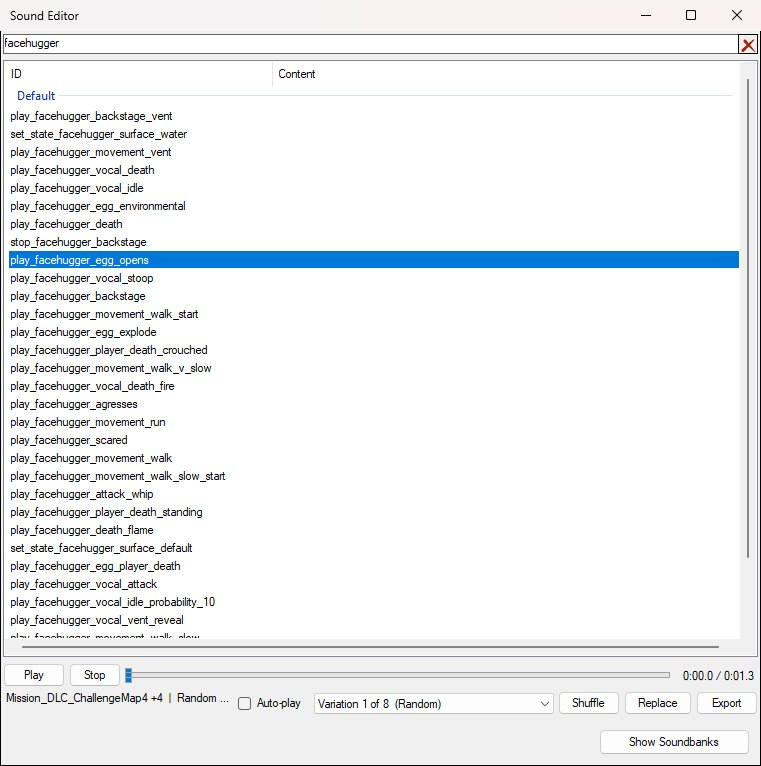
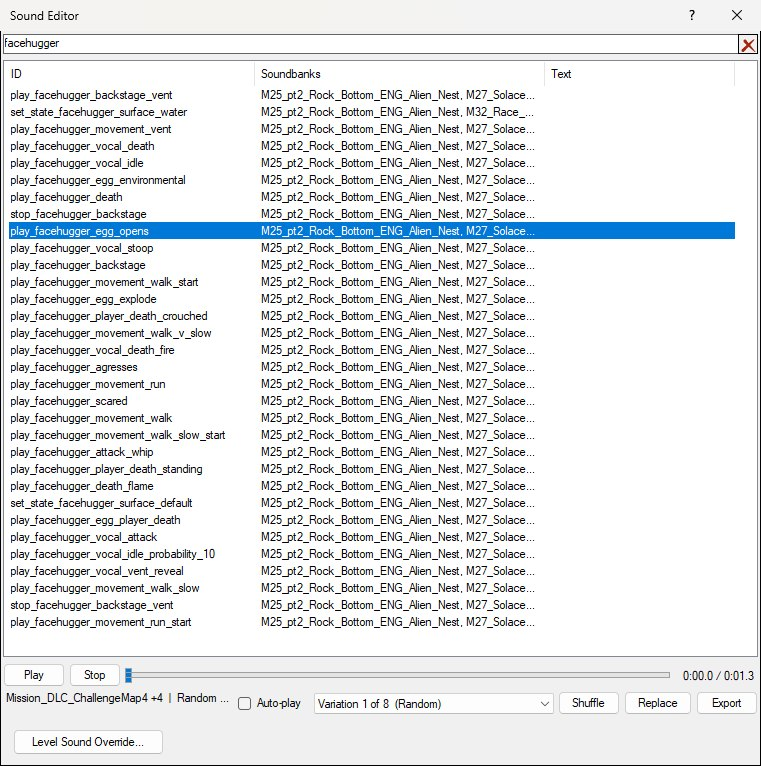
docs, changelog

diff --git a/docs/sound-events/index.html b/docs/sound-events/index.html
@@ -105,6 +105,8 @@
 <li class="nav-item"><a class="nav-link scrollto" href="#replace-copies">Every Copy is Replaced</a></li>
 <li class="nav-item"><a class="nav-link scrollto" href="#replace-level">Replacing for One Level</a></li>
 <li class="nav-item section-title"><a class="nav-link scrollto" href="#level-sound-override"><span class="theme-icon-holder me-2"><i class="fas fa-scroll"></i></span>Level Sound Override</a></li>
+<li class="nav-item"><a class="nav-link scrollto" href="#import-wav">Importing a WAV</a></li>
+<li class="nav-item"><a class="nav-link scrollto" href="#new-soundbank">Making a Soundbank</a></li>
 <li class="nav-item"><a class="nav-link scrollto" href="#level-sound-override-limits">What a Level Can't Replace</a></li>
 <li class="nav-item section-title"><a class="nav-link scrollto" href="#metadata"><span class="theme-icon-holder me-2"><i class="fas fa-scroll"></i></span>Soundbank Metadata</a></li>
 <li class="nav-item section-title"><a class="nav-link scrollto" href="#related"><span class="theme-icon-holder me-2"><i class="fas fa-scroll"></i></span>Related Docs</a></li>
@@ -129,8 +131,8 @@
 	<section class="docs-section" style="padding-top:0;">
 		<p>Alien: Isolation's audio runs through <b>Wwise</b>. Scripts don't reference audio files — they fire <b>sound events</b> by name, and Wwise decides what that means: which take to play, whether to pick at random, which bank the audio comes from.</p>
 		<p>Whenever you set a sound event on an entity parameter, OpenCAGE opens the sound event selector. That window has a player along its bottom edge, so you can hear what an event actually sounds like before committing to it — and export or replace the audio behind it.</p>
-		<p>The same window opens from <b>View → Sound Editor</b> once a level is loaded, with no parameter behind it: every sound event the level knows (shown below), to listen through, look up in the soundbanks, export or replace, without first finding an entity that plays one. The box along the top filters the list as you type. It stays open while you work in the editor and closes when the level does. Only one of these windows is open at a time, so editing a sound event parameter in the inspector closes the Sound Editor and opens the picker in its place.</p>
-		<p><img src="img/sound-editor.jpg" alt="The Sound Editor window: a searchable list of every sound event in the level, with the preview player along the bottom edge showing the loaded take, its variations and the Replace and Export buttons." style="max-width:100%;width:761px"></p>
+		<p>The same window opens from <b>View → Sound Editor</b> once a level is loaded, with no parameter behind it: every sound event the level knows (shown below), with the soundbanks each is in, to listen through, export or replace, without first finding an entity that plays one. The box along the top filters the list as you type, on the event's name or the name of a soundbank it's in. It stays open while you work in the editor and closes when the level does. Only one of these windows is open at a time, so editing a sound event parameter in the inspector closes the Sound Editor and opens the picker in its place.</p>
+		<p><img src="img/sound-editor.jpg" alt="The Sound Editor window: a searchable list of every sound event in the level and the soundbanks each is in, with the preview player along the bottom edge showing the loaded take, its variations and the Replace and Export buttons." style="max-width:100%;width:761px"></p>
 		<p class="text-muted small"><i>View → Sound Editor with an event selected. Opened from a parameter instead, the same window is titled Select for 'sound_event' and gains a Select button.</i></p>
     </section>
 </article>
@@ -165,7 +167,7 @@
 			<li><a href="/docs/cathode-entities/#Sound">Sound</a> — plays a sound event. Set its <code>sound_event</code> parameter and trigger it; that parameter is what opens the selector described on this page.</li>
 			<li><a href="/docs/cathode-entities/#SoundLoadBank">SoundLoadBank</a> — loads the soundbank the event lives in. The audio isn't resident until something loads its bank, so a <a href="/docs/cathode-entities/#Sound">Sound</a> entity firing an event from an unloaded bank plays nothing.</li>
 		</ul>
-		<p>Which bank to load is exactly what the <b>Show Soundbanks</b> button tells you — select the event, read off the soundbank it's listed in, and point a <a href="/docs/cathode-entities/#SoundLoadBank">SoundLoadBank</a> at that. See <a href="#metadata">Soundbank Metadata</a>.</p>
+		<p>Which bank to load is exactly what the <b>Soundbanks</b> column tells you — find the event, read off a soundbank it's listed in, and have a <a href="/docs/cathode-entities/#SoundLoadBank">SoundLoadBank</a> load it: link a <a href="/docs/cathode-entities/#VariableString">VariableString</a> holding the bank's name to the SoundLoadBank's <code>sound_bank</code> pin, the way the game's own scripts do. A name typed straight onto the pin isn't read. See <a href="#metadata">Soundbank Metadata</a>.</p>
 		<p>Banks that are permanently resident don't need loading; those are configured separately under <a href="/docs/configs/perma-soundbanks/">Permanent Soundbanks</a>.</p>
     </section>
 
@@ -177,8 +179,8 @@
 			<li><a href="/docs/cathode-entities/#SpeechScript">SpeechScript</a> — <b>a whole exchange</b>. Takes up to five characters (<code>character_01</code>…<code>character_05</code>, each with an alt) and up to ten lines. Each line has a <code>line_NN_event</code> for the sound event, a <code>line_NN_character</code> naming which of the five slots delivers it, and — from the second line onwards — a <code>line_NN_delay</code> for the pause before it. Fires <code>on_script_ended</code> when the last line finishes.</li>
 		</ul>
 		<p>Use <a href="/docs/cathode-entities/#Speech">Speech</a> for a barked line or a one-off; use <a href="/docs/cathode-entities/#SpeechScript">SpeechScript</a> for back-and-forth conversation, where hand-wiring a chain of <a href="/docs/cathode-entities/#Speech">Speech</a> entities and delays would be far more work.</p>
-		<p>In the selector, a dialogue event shows its subtitle in the <b>Content</b> column, and the search box matches on that text as well as on the event name — so you can find a line by what's said. Lines whose audio depends on who is speaking can't be previewed; the player's status line says so when you select one.</p>
-		<p>Both still need their bank loaded, so the <b>Show Soundbanks</b> → <a href="/docs/cathode-entities/#SoundLoadBank">SoundLoadBank</a> step above applies to dialogue as much as to any other sound.</p>
+		<p>In the selector, a dialogue event shows its subtitle in the <b>Text</b> column, and the search box matches on that text as well as on the event name — so you can find a line by what's said. Lines whose audio depends on who is speaking can't be previewed; the player's status line says so when you select one.</p>
+		<p>Both still need their bank loaded, so the <b>Soundbanks</b> column → <a href="/docs/cathode-entities/#SoundLoadBank">SoundLoadBank</a> step above applies to dialogue as much as to any other sound.</p>
 	</section>
 </article>
 
@@ -236,8 +238,8 @@
 		<h2 class="section-heading">Preparing a WAV</h2>
 		<p>Replacement audio must be a <code>.wav</code>. A few things to keep in mind:</p>
 		<ul>
-			<li><b>Uncompressed, mono or stereo.</b> The <code>.wav</code> must be uncompressed PCM (8, 16, 24 or 32-bit) or floating point. A file with more than two channels is refused, so mix surround down to stereo first. 44100 or 48000 Hz always works; an unusual sample rate can be refused.</li>
-			<li><b>Match the original's channel count where you can.</b> Replacing a mono sound with a stereo file changes how the engine positions it in 3D space. The summary describes the file you chose but doesn't compare it with the original — the player's status line is where you read off the original's sample rate and channel layout.</li>
+			<li><b>Uncompressed, any channel count or sample rate.</b> The <code>.wav</code> must be uncompressed PCM (8, 16, 24 or 32-bit) or floating point. The game's codebooks only cover mono and stereo, so a file with more channels is mixed down to stereo. A sample rate the game's decoder isn't set up for is resampled to the nearest one it is: mono works from 16000 Hz up, stereo from 32000 Hz up, and anything above 48000 Hz (the highest the game ships) comes down to 48000 Hz. The summary says when either happened.</li>
+			<li><b>Match the original's channel count where you can.</b> Replacing a mono sound with a stereo file changes how the engine positions it in 3D space. The summary names the original's layout beside your file's; <a href="#import-wav">Import WAV</a> in the Level Sound Override window can mix and resample to match it for you.</li>
 			<li><b>The encoding follows the original.</b> On PC everything is Wwise Vorbis. The Switch build also stores some sounds as Wwise ADPCM and a few as plain PCM — OpenCAGE encodes to whichever codec the sound it's replacing used, so the game can still read it.</li>
 			<li><b>Size matters, but isn't fatal.</b> The summary tells you how the new audio compares to the old; a much larger file grows the container it lives in.</li>
 			<li><b>A variation with no audio of its own can't be replaced.</b> Some entries in a container are references rather than media — the player says so if you try.</li>
@@ -276,14 +278,65 @@
 	<section class="docs-section" style="padding-top:0;">
 		<p>Any level can carry a sound package of its own: <code>WORLD\LEVEL_SOUND_OVERRIDE.PCK</code> in the level's folder. When the game loads the level it mounts that package ahead of the shared sound files, so a soundbank or a streamed sound in it with the same id as one in <code>DATA\SOUND</code> is read from the package instead — on that level alone. The challenge maps carry changed copies of shared soundbanks, soundbanks of their own and replacement streams this way.</p>
 		<p>It's how a modded map gets sounds of its own without changing the game's: replace a gun's firing sound for your level and every other level keeps the original.</p>
-		<p>The <b>Level Sound Override…</b> button at the bottom left of the Sound Editor lists what the open level's package holds — each soundbank and stream, its language, its size, and what it stands in for on this level:</p>
+		<p>The <b>Level Sound Override…</b> button at the bottom left of the Sound Editor lists what the open level's package holds — each soundbank, each sound changed inside it, and each stream, with its size and what it stands in for on this level. Everything is listed by name: a soundbank by its own name, and a sound by the sound event that plays it (<i>Play_SPOT_2_Man_Switch_Console</i>, or <i>Play_Pistol_Fire (take 3 of 19)</i> for one of several takes, with <i>+2 more</i> when other events play it too) rather than by the number its file is named for. The number is still in the <b>File</b> column, and stands in for the name only for audio none of the level's events plays — a soundbank of your own, say. The <b>Search</b> box filters the list by either.</p>
+		<p><img src="img/level-sound-override.jpg" alt="The Level Sound Override window listing two soundbanks, each with the sound changed inside it indented beneath, and two streams, every one named by its sound event, with Import WAV, Add Files, Export, Remove and Close along the bottom." style="max-width:100%;width:1002px"></p>
+		<p class="text-muted small"><i>A level's package with two sounds replaced inside copies of their soundbanks and two streams. The indented rows are the sounds that differ from the base game's copy of each soundbank.</i></p>
 		<ul>
-			<li><b>Add Files…</b> — puts a soundbank (<code>.bnk</code>, built with the game's version of Wwise) or a stream (<code>.wem</code> named for its id, such as <code>123456789.wem</code>) into the package, in place of anything there with the same id.</li>
-			<li><b>Export…</b> — saves the selected soundbank or stream out of the package.</li>
-			<li><b>Remove</b> (or <b>Delete</b>) — takes the selected files out of the package, so on this level the game reads the shared file of the same id again. A package with nothing left in it is deleted.</li>
+			<li><b>Import WAV…</b> — makes a sound for the level from a <code>.wav</code>, in place of one of the game's or as a stream of its own — see <a href="#import-wav">Importing a WAV</a>. With a sound selected it starts on that sound; with a soundbank selected, on that soundbank's sounds. Double-clicking a row does the same.</li>
+			<li><b>New Soundbank…</b> — makes a soundbank of the level's own, with sound events new to the game — see <a href="#new-soundbank">Making a Soundbank</a>. With a soundbank made this way selected it reads <b>Edit Soundbank…</b>, to add events to it or take them out; double-clicking the soundbank does the same.</li>
+			<li><b>Add Files…</b> — puts a soundbank (<code>.bnk</code>, built with the game's version of Wwise) or a stream (<code>.wem</code> named for its id, such as <code>123456789.wem</code>) into the package as it is, in place of anything there with the same id.</li>
+			<li><b>Export…</b> — saves the selected soundbank, stream or sound out of the package: a soundbank as a <code>.bnk</code>, a stream or a sound from inside a soundbank as Wwise audio (<code>.wem</code>) or, decoded, as a <code>.wav</code>.</li>
+			<li><b>Remove</b> (or <b>Delete</b>) — takes the selected soundbanks and streams out of the package, so on this level the game reads the shared file of the same id again, and puts the base game's audio back in place of the selected sounds in soundbanks. A soundbank that ends up the same as the base game's comes out of the package, and a package with nothing left in it is deleted.</li>
 		</ul>
-		<p>Sounds get into the package through <b>Replace → For This Level Only…</b>; this window is for seeing what's there and for whole files. Every change is written straight away, so there's nothing to save — but none of them are undo steps, and the level's package is the only copy of anything changed in it.</p>
+		<p>Every change is written straight away, so there's nothing to save — but none of them are undo steps, and the level's package is the only copy of anything changed in it. <b>Replace → For This Level Only…</b> in the Sound Editor writes to the same package.</p>
 		<p>The game holds the package open while it's running the level, so close the game before changing it.</p>
+	</section>
+
+	<section class="docs-section" id="import-wav">
+		<h2 class="section-heading">Importing a WAV</h2>
+		<p><b>Import WAV…</b> turns a <code>.wav</code> into audio the game plays, with no Wwise needed: it's encoded the way the game's own audio is (Wwise Vorbis) and put where the game reads the sound from on this level.</p>
+		<p><img src="img/import-wav.jpg" alt="The Import WAV window: the chosen .wav at the top, a searchable list of the game's sounds with the one it replaces selected, the channel, sample rate, quality and gain choices, and a summary of what importing it will do above Play Original, Play New, Import and Cancel." style="max-width:100%;width:862px"></p>
+		<p class="text-muted small"><i>A mono 22050 Hz .wav going in place of play_alien_spawn, mixed and resampled to the stereo 44100 Hz the original was shipped at.</i></p>
+		<ol>
+			<li><b>Browse…</b> for the <code>.wav</code>, or drop one on the window. While no sound is picked yet, a file named for a sound event or a sound's id picks that sound for you.</li>
+			<li>Pick the sound it replaces. The list has every sound the level's events play, named by the event (and which take it is), its id, where the game keeps it — a stream, or the soundbank it's in — and the other events that play it. Search by an event's name, a soundbank's name or an id. A sound the level can't replace says why in <b>Kept in</b> (see <a href="#level-sound-override-limits">What a Level Can't Replace</a>).</li>
+			<li>Choose the layout. By default the new audio <b>matches the sound it replaces</b>: mixed to its channel count and resampled to its sample rate, so the game positions and mixes it as before. You can keep the <code>.wav</code>'s own channels or rate instead, or pick mono, stereo or a rate yourself. <b>Quality</b> is the Vorbis quality (raised automatically to the nearest setting the game's decoder is set up for), <b>Gain</b> adds decibels, and <b>Normalise to -1 dBFS</b> scales the loudest moment to just under full scale.</li>
+			<li>Read the summary: the new audio's layout against the original's, the encoding, its size against the audio it replaces, and what happens to the level's package. It's worked out again whenever you change something, and nothing is written yet.</li>
+			<li><b>Play Original</b> plays the game's audio for the sound; <b>Play New</b> plays the new audio, decoded from the very file that will go in. <b>Import</b> writes it.</li>
+		</ol>
+		<p>Where it goes depends on where the game keeps the sound. A streamed sound goes in as a stream of its own. A sound held inside a soundbank needs the whole bank, so the bank is copied into the package once and the sound swapped inside the copy, with the bank's directory and the sound objects that point at the audio kept in step; later imports change the copy where it is. A streamed sound whose opening is also held in a soundbank (for it to start without waiting on the disk) gets both. Of the per-level <code>DynamicLoad_</code> soundbanks, only the level's own is copied.</p>
+		<p><b>Add it as a stream of its own</b> puts the audio in the package as a stream with an id you type — for a soundbank of your own, added with <b>Add Files…</b>, that streams audio by that id. There's no original to match, so the <code>.wav</code>'s layout is kept unless you choose one.</p>
+		<p>A few things the summary will tell you about:</p>
+		<ul>
+			<li><b>Surround.</b> The game's codebooks only cover mono and stereo, so a 5.1 original gets stereo audio, and a surround <code>.wav</code> is mixed down.</li>
+			<li><b>Size.</b> Audio held in a soundbank stays in memory for as long as the bank is loaded. A replacement several times the size of the original, or a large one, is pointed out; mono, a lower sample rate, a lower quality or a shorter sound make it smaller.</li>
+			<li><b>Loops and markers.</b> Whether a sound loops is up to the game, which repeats the whole of the new audio where it loops the sound — unless the <code>.wav</code> has a loop region of its own (a <code>smpl</code> chunk, as most audio editors write one), which is carried over, so it plays through once and then repeats just that part, the way some of the game's music does. Markers (cue points) aren't carried; the summary says when the original had a loop region or markers.</li>
+		</ul>
+		<p>Import WAV changes the audio behind sounds the game already has. For sound events of your own — names no soundbank of the game's declares — make a soundbank: see <a href="#new-soundbank">Making a Soundbank</a>.</p>
+	</section>
+
+	<section class="docs-section" id="new-soundbank">
+		<h2 class="section-heading">Making a Soundbank</h2>
+		<p><b>New Soundbank…</b> makes a soundbank of the level's own: sound events new to the game, each playing a <code>.wav</code> of yours and sounding like a sound of the game's you pick. No Wwise is needed. Scripts load it and play its events like the game's own.</p>
+		<p><img src="img/new-soundbank.jpg" alt="The New Soundbank window: the soundbank's name, its three events with their .wav files, the sounds of the game's they sound like and whether they loop, and below them the fields to add another event - a name, a .wav, and a searchable list of the game's sounds to pick the one it sounds like - above a summary of how to load and play the bank." style="max-width:100%;width:882px"></p>
+		<p class="text-muted small"><i>A soundbank of three events, about to be created: one sounding like play_alien_spawn, one like a 3D sound of M04's, and one that loops.</i></p>
+		<ol>
+			<li>Name the soundbank: letters, digits and underscores, and not the name of one of the game's.</li>
+			<li>Add each event: its name (what a <a href="/docs/cathode-entities/#Sound">Sound</a> entity's <code>sound_event</code> will say — letters, digits and underscores, and not a name the game already uses), its <code>.wav</code>, and the sound of the game's it <b>sounds like</b>, picked from the same searchable list as Import WAV (<b>Play Sound</b> plays it). Tick <b>Loop until stopped</b> for a sound that repeats until something stops it. Then <b>Add Event</b>.</li>
+			<li><b>Create</b>. The <code>.wav</code> files are encoded the way the game's audio is, laid out like the sounds they sound like (channels and sample rate), and the soundbank goes in the level's sound package.</li>
+		</ol>
+		<p>An event <b>sounds like</b> its sound of the game's: it plays through that sound's actor-mixer and output bus, with its 3D positioning and distance attenuation, reverb sends, volume, effects and game-parameter curves — everything the game's sound designers set up for it but the audio, and its random pitch or volume, which are left out so the <code>.wav</code> plays as it is. Pick a 2D sound (music, a radio, the UI) for audio heard the same wherever the player is, and a 3D one near the kind of thing yours is — a door, a voice, a machine — for audio that comes from where its Sound entity is and fades with distance.</p>
+		<p>The events also go in the level's sound event table (<code>WORLD\SOUNDEVENTDATA.DAT</code>) and the soundbank in its soundbank list: the game looks up the event a Sound entity names in that table as the level loads, and plays nothing for a name it doesn't find there. So they appear in the sound event selector and the Sound Editor straight away, in the soundbank's name, where they can be previewed like any other.</p>
+		<p>To play them in the level:</p>
+		<ul>
+			<li>Add a <a href="/docs/cathode-entities/#SoundLoadBank">SoundLoadBank</a> to the level's script, with <code>trigger_via_pin</code> off to load the bank as the level loads, and link a <a href="/docs/cathode-entities/#VariableString">VariableString</a> holding the soundbank's name to its <code>sound_bank</code> pin.</li>
+			<li>Add a <a href="/docs/cathode-entities/#Sound">Sound</a> entity per event, its <code>sound_event</code> set to the event's name and its <code>position</code> where the sound should come from, and trigger it (its <code>start</code> pin) like any other.</li>
+			<li>For an event that loops, leave the Sound entity's <code>multi_trigger</code> off, so its <code>stop</code> pin stops the sound: with <code>multi_trigger</code> on, each trigger plays on by itself and <code>stop</code> does nothing to it.</li>
+		</ul>
+		<p>With the soundbank selected, <b>Edit Soundbank…</b> lists its events to add more or take some out (<b>Remove Event</b>), then <b>Save</b>s it again. <b>Remove</b> in the Level Sound Override window takes the whole soundbank out, and its events out of the level's sound event table with it.</p>
+		<div class="docs-caveat">
+			<p><b>The soundbank and its events belong to this level.</b> They're in the level's own sound package and sound event table, so another level doesn't have them — make the soundbank there too. The audio is held in the soundbank, so it stays in memory for as long as the bank is loaded: keep long sounds short, mono, or at a lower sample rate. A sound of the game's whose 3D positioning follows a path, or that isn't Vorbis audio, can't be borrowed from; pick another.</p>
+		</div>
 	</section>
 
 	<section class="docs-section" id="level-sound-override-limits">
@@ -301,12 +354,10 @@
     </header>
 
 	<section class="docs-section" style="padding-top:0;">
-		<p>With an event selected, the <b>Show Soundbanks</b> button at the bottom right of the window lists every soundbank the event appears in, as shown below. The player's status line already names one of them and counts the rest (<i>Mission_DLC_ChallengeMap4 +4</i>); this is the full list. It tells you which levels can actually fire the event — one that isn't in a bank your level loads won't play, however correctly the script is wired.</p>
-		<p><img src="img/show-soundbanks.jpg" alt="The Soundbanks dialog listing the five soundbanks that declare the selected event, shown over the Sound Editor." style="max-width:100%;width:761px"></p>
-		<p class="text-muted small"><i>Show Soundbanks: the banks this event is declared in — any one of these is a valid target for a SoundLoadBank entity.</i></p>
-		<p>This is where you get the bank name to give a <a href="/docs/cathode-entities/#SoundLoadBank">SoundLoadBank</a> entity, so the event you're about to fire is actually loaded — see <a href="#scripting">Playing a Sound in a Script</a>.</p>
-		<p>If the event isn't listed in any soundbank at all, it says so. That usually means the name is wrong or the event belongs to content that isn't shipped.</p>
-		<p>Which banks are permanently resident is configured separately — see <a href="/docs/configs/perma-soundbanks/">Permanent Soundbanks</a>.</p>
+		<p>The <b>Soundbanks</b> column beside each event lists every soundbank the event appears in, as the level's sound data declares it. The player's status line names one of them and counts the rest (<i>Mission_DLC_ChallengeMap4 +4</i>); the column is the full list. It tells you which levels can actually fire the event — one that isn't in a bank your level loads won't play, however correctly the script is wired. Searching for a soundbank's name lists the events in it, as below.</p>
+		<p><img src="img/soundbanks-column.jpg" alt="The Sound Editor filtered by a soundbank's name, M04_WelcomeToSevastopol, listing the events in that soundbank with each event's soundbanks in the second column." style="max-width:100%;width:761px"></p>
+		<p class="text-muted small"><i>The events in M04_WelcomeToSevastopol, found by typing its name in the search box. Any bank in an event's Soundbanks column is a valid target for a SoundLoadBank entity.</i></p>
+		<p>This is where you get the bank name to give a <a href="/docs/cathode-entities/#SoundLoadBank">SoundLoadBank</a> entity, so the event you're about to fire is actually loaded — see <a href="#scripting">Playing a Sound in a Script</a>.</p>		<p>Which banks are permanently resident is configured separately — see <a href="/docs/configs/perma-soundbanks/">Permanent Soundbanks</a>.</p>
     </section>
 </article>
 

diff --git a/docs/making-mods/index.html b/docs/making-mods/index.html
@@ -134,9 +134,11 @@
 		<p>The left of the window lists everything that's different from the original game, in plain words. OpenCAGE remembers when you changed each composite, model, texture and material, and saves that with the level, so what you've worked on is listed by name with when you last changed it, newest first:</p>
 		<ul>
 			<li><b>Levels</b> - each level you've changed. A level you made with Create Level always goes in whole. So does a level that mods you've installed change too: it's listed as <i>your own version of it, whole</i>. Under any other level are the scripts (composites), models, textures and materials you've edited in it, each by name, any change to its characters' appearance (in the <a href="/docs/character-editor/">Character Editor</a>) or its galaxy (in the <a href="/docs/galaxy-editor/">Galaxy Editor</a>), and its text files. Only the changes you made to a script go in, not OpenCAGE's own tidying, such as the defaults it fills in when you select an entity. Models, textures and materials a ticked script has added come with it automatically, so they aren't listed. A material mapping, collision or physics change can only go in with the whole level, and says so. Last comes <i>The whole level</i>: tick it to include every change in the level, listed or not - including any made before OpenCAGE kept this history. A level changed only before then can only go in whole. Which text databases a level loads, set in the <a href="/docs/configs/level-text-dbs/">Level Text DBs</a> editor, goes in with the level. Hover over <i>The whole level</i> to see the level's files. A level's box is part-filled when only some of it is ticked; click it to tick the whole level.</li>
-			<li><b>Settings</b> - grouped by what they're for, such as <i>The alien (DEFAULT.BML)</i>. Each change shows the value it had and the value you gave it, for example <i>AreaSweep › menace cool down time: 30 → 45</i>, so you can untick any you only changed while testing. What a config editor writes when it saves a file isn't listed unless the value is different: a number written another way (<i>3</i> as <i>3.000</i>), or a value a character only inherits from its template, written into its own file.</li>
+			<li><b>Settings</b> - grouped by what they're for, such as <i>The alien (DEFAULT.BML)</i>. Each change shows the value it had and the value you gave it, for example <i>AreaSweep › menace cool down time: 30 → 45</i>, so you can untick any you only changed while testing. What a config editor writes when it saves a file isn't listed unless the value is different: a number written another way (<i>3</i> as <i>3.000</i>), or a value a character only inherits from its template, written into its own file. The graphics and sound options (<code>ENGINE_SETTINGS.XML</code>, which the <a href="/docs/configs/graphics-settings/">Graphics Settings</a> editor changes) and the controls (<code>INPUT.XML</code>) are listed value by value too: a graphics option by its setting and quality level, for example <i>Graphics › Streaming Texture Heap Size › Default: 300 → 512</i>. Your mod then changes only the values you ticked, so it can be installed alongside other mods that change other options in the same file, and taking it off puts back just those values.
+				<p><img src="img/create-mod-engine-settings.jpg" alt="Create a Mod listing Settings, The graphics and sound options (ENGINE_SETTINGS.XML) - 2 changes: Graphics › Streaming Texture Heap Size › Default: 300 → 512, and the same for Ultra. Below them, an unticked, folded-away item: Copies of the game's own files - not changes, so left out unless you tick them." style="max-width:100%;width:575px"></p></li>
 			<li><b>Behaviour trees</b> - each tree you changed or added, as a single item.</li>
 			<li><b>Other files</b> - everything else, such as in-game text or the user interface, with when you last changed it in OpenCAGE. The user interface (<code>UI.PAK</code>) and the animations (<code>ANIMATION.PAK</code>) list what you changed inside them, so you can leave some of it out: each UI file you changed or added, and each animation tree, animation you imported or replaced, blend set and tree layout you changed. An animation brings its animation data and its entry in the game's list of animations with it, and a changed animation tree brings the layout you gave it in the <a href="/docs/animation-tree-editor/">Animation Tree Editor</a>. With everything inside ticked, the file goes in as it is; with some of it unticked, your mod holds the original file with only the ticked changes in it. A change to the text databases every level loads, or to those of a level that isn't otherwise listed, is an item of its own here.</li>
+			<li><b>Copies of the game's own files</b> - files that are byte for byte ones the game ships, under the same names, somewhere the game doesn't use them: what's left when one of the game's folders is renamed and then put back, or backed up inside the game folder. They aren't changes, so they start unticked and folded away. Tick one only if your mod really does need it as a new file. (A level you duplicated is your own level, not a copy, and is listed under Levels.)</li>
 		</ul>
 		<p>What you've changed starts ticked, apart from <i>The whole level</i> of a level whose changes are listed one by one - unless one of them can only go in with the whole level. If you changed a level before OpenCAGE kept this history, tick <i>The whole level</i> so those changes go in too. Untick anything that shouldn't be in this mod. If you have mods installed, what they changed isn't listed - only your own work goes into your mod.</p>
 		<p>If a composite you've ticked needs another change you made - a pin you added to a composite it uses, or something an alias in it points at that you added - that change goes in too, and you're told when the mod is saved. When only part of a level goes in, OpenCAGE builds that part onto a copy of the original level before saving the mod, so saving takes longer. If you rebuilt the level with <a href="/docs/save-and-build/">Save and Build</a> and what you ticked changes something a build makes - a model, a light, collision or navigation, say - the copy is rebuilt as well, which takes longer again; a change to a level's logic alone only needs the copy saved.</p>
@@ -198,7 +200,7 @@
 		<table class="table table-bordered">
 			<thead><tr><th>What the mods change</th><th>Combined</th></tr></thead>
 			<tbody>
-				<tr><td>Settings (alien, characters, weapons, difficulty, items and the other config files)</td><td>Setting by setting, including entries added to or removed from lists</td></tr>
+				<tr><td>Settings (alien, characters, weapons, difficulty, items, graphics and sound options, controls and the other config files)</td><td>Setting by setting, including entries added to or removed from lists - for the graphics and sound options, quality level by quality level. An XML file keeps its own layout, so it differs from the original only where the mods change it</td></tr>
 				<tr><td>Behaviour trees</td><td>Node by node, including whole new trees</td></tr>
 				<tr><td>Animation trees (<code>ANIMATION.PAK</code>)</td><td>Tree by tree, so two mods changing different trees of the same character both keep their changes</td></tr>
 				<tr><td>Animations imported or replaced, and blend sets (<code>ANIMATION.PAK</code>)</td><td>Animation by animation and blend set by blend set: each mod's animations go into the character's list and the game's list of all animations, as importing them again would put them, so two mods adding animations to the same character both keep theirs</td></tr>

diff --git a/docs/installing-mods/index.html b/docs/installing-mods/index.html
@@ -220,6 +220,9 @@
 		<p>If you also change the game yourself with OpenCAGE - editing a level's scripts, say, or a setting - the Mod Manager looks after those changes too. Mods are combined with your changes rather than replacing them, and turning mods off gives you your changes back. The top of the Mod Manager tells you when you've changed files yourself:</p>
 		<p><img src="img/manager-own-changes.jpg" alt="The top of the Mod Manager saying you've changed the level SOLACE and four other game files yourself, and that OpenCAGE keeps the originals so mods are combined with your changes." width="100%"></p>
 		<p>Where a mod changes the very same thing you did, the mod's version is used while it's installed. Turn the mod off and yours comes back.</p>
+		<p>What counts as a change is what's in each file, not when it was last written: a file that's back to exactly what the game shipped with - put back by Steam's file check, say - isn't a change, however recently it was written. Copies of the game's own files somewhere the game doesn't use them aren't changes either. That's what's left when you rename one of the game's folders (to try something without it, say) and your game store then puts the original back, or when you back a folder up inside the game folder. The Mod Manager says how many copies there are and where, on a line of its own, and leaves them out of your mods:</p>
+		<p><img src="img/manager-copies.jpg" alt="The top of the Mod Manager: you've changed 1 game file yourself, with a Check every file again link, and below it Not counted as changes: 68 copies of the game's own files (4.5 GB) in DATA/UI/MOVIES1 - a folder renamed and put back, or a backup." width="100%"></p>
+		<p>The game doesn't use those copies, so you can delete them if you don't need them. Hover over the line to see which files they are.</p>
     </section>
 
 	<section class="docs-section" id="changed-since">
@@ -252,6 +255,7 @@
 	<section class="docs-section" style="padding-top:0;">
 		<p>Steam, the Epic Games launcher or GOG Galaxy sometimes puts the game's original files back - after a game update, or when you ask it to check (verify) the game's files. If that happens to files your mods changed, those mods show <b>Needs repair</b>. Click <b>Repair</b> and the Mod Manager puts your mods back in.</p>
 		<p>You don't need to tell the Mod Manager this has happened. It remembers the size of every game file and when it was last changed, and anything that rewrites a file - your game store, another tool, or you - changes that. The next time it checks your game files, it reads those files again and sees what's in them now.</p>
+		<p>A few tools can change a file and then set its size and date back to what they were. If you think the Mod Manager has missed a change like that, click <b>Check every file again</b> at the end of the line at the top: it reads every game file once more, which takes as long as the first check did.</p>
     </section>
 </article>
 
@@ -268,6 +272,7 @@
 		<p><b>It says a mod was made for a different version of the game.</b><br>Mods are made for one version of the game. Mods made with the Steam, Epic Games Store or GOG version work on any of those three, but they can't be installed on other versions (such as the Microsoft Store or Nintendo Switch version), and those versions' mods can't be installed on Steam, Epic Games Store or GOG copies.</p>
 		<p><b>It says mods can't be used with this version of the game.</b><br>To put mods in and take them out again, the Mod Manager needs a record of what the game's own files should look like. OpenCAGE has that for the Steam, Epic Games Store, GOG, Microsoft Store and Nintendo Switch versions, but not yet for the mobile or Mac/Linux versions, so the Mod Manager can't be used with those.</p>
 		<p><b>Does removing a mod really undo everything it changed?</b><br>Yes. Every file is put back exactly as it was, byte for byte.</p>
+		<p><b>It says I've changed game files I never touched.</b><br>Check the line under it first: copies of the game's own files (a folder you renamed or backed up) are listed there, not counted as changes - see <a href="#own-changes">Your Own Changes</a>. A file your game store put back as it shipped isn't a change either, whenever it was written. If a mod was installed while one of the game's folders was renamed, and you've put the folder back since, the Mod Manager notices the next time it checks your game files and keeps those files as the originals, so removing the mod won't take them away again.</p>
 		<p><b>Where does the Mod Manager keep my mods?</b><br>Inside your game folder, in <code>DATA/MODTOOLS/MODS</code>, along with the copies of original files it keeps. Don't change anything in there by hand.</p>
 		<p><b>Why does applying take longer for some mods?</b><br>A level that more than one of your mods changes (or that you've changed yourself as well) is put back together from all of them, which takes a minute or so per level - longer when one of those mods rebuilt the level's lighting and navigation, as the combined level then has to be rebuilt too. Everything else goes in within seconds. A level is only put back together when something about it has changed: turning other mods on or off leaves it alone.</p>
     </section>

diff --git a/docs/changelog/index.html b/docs/changelog/index.html
@@ -416,7 +416,11 @@
 				<li>Replacing a sound for every level updates every copy the game ships, so it can't come back in a level that loads a different bank</li>
 				<li>Replace a sound for one level only: the new audio goes into the level's own sound override package (WORLD\LEVEL_SOUND_OVERRIDE.PCK), which the game reads ahead of its shared sound files - so a modded map can have its own sounds without changing them anywhere else</li>
 				<li>Edit the sound override packages the DLC levels already ship with, and put a sound back to the base game's audio on one level</li>
-				<li>Added a Level Sound Override window (from the sound editor) listing the soundbanks and streams in a level's package, to add, export or remove them</li>
+				<li>Added a Level Sound Override window (from the sound editor) listing the soundbanks and streams in a level's package, and the sounds changed inside each soundbank, by name (the sound event that plays each one) - to search, add, export or remove them</li>
+				<li>Import WAV in the Level Sound Override window: pick the sound a .wav replaces by its sound event, and it's encoded the way the game's own audio is and laid out like the sound it replaces (channels and sample rate) - no Wwise needed - with the original and the new audio to play first</li>
+				<li>Importing a .wav now mixes down surround audio and resamples rates the game's decoder can't take, rather than refusing them, and carries a .wav's own loop points over</li>
+				<li>New Soundbank in the Level Sound Override window: make a soundbank of the level's own with new sound events, each playing a .wav and sounding like a sound of the game's you pick (its mixer, bus, 3D positioning and attenuation) - no Wwise needed. Its events go in the level's sound event table, so scripts can load the bank with a SoundLoadBank and play them with Sound entities</li>
+				<li>The sound event list shows the soundbanks each event is in, in place of the Show Soundbanks button - searching for a soundbank's name lists its events</li>
 				<li>Sounds held in a permanent soundbank (such as Weapons or UI) can only be replaced for every level, as the game loads those before any level - the sound editor says which bank holds them</li>
 				<li>Sound import/export supported on the Switch and mobile builds, encoding to whichever codec the sound it replaces used (Wwise Vorbis, Wwise ADPCM, or PCM)</li>
 			</ul></li>
